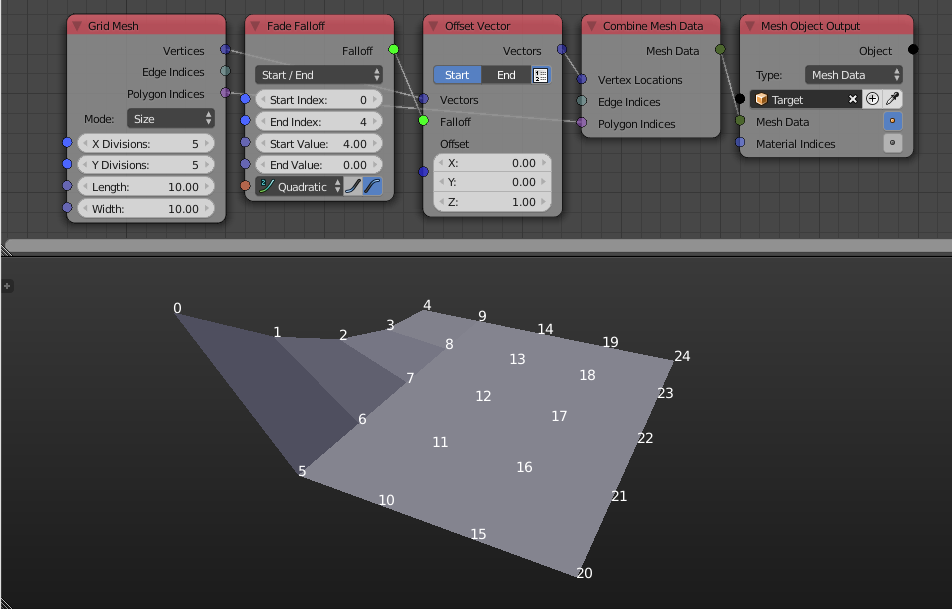
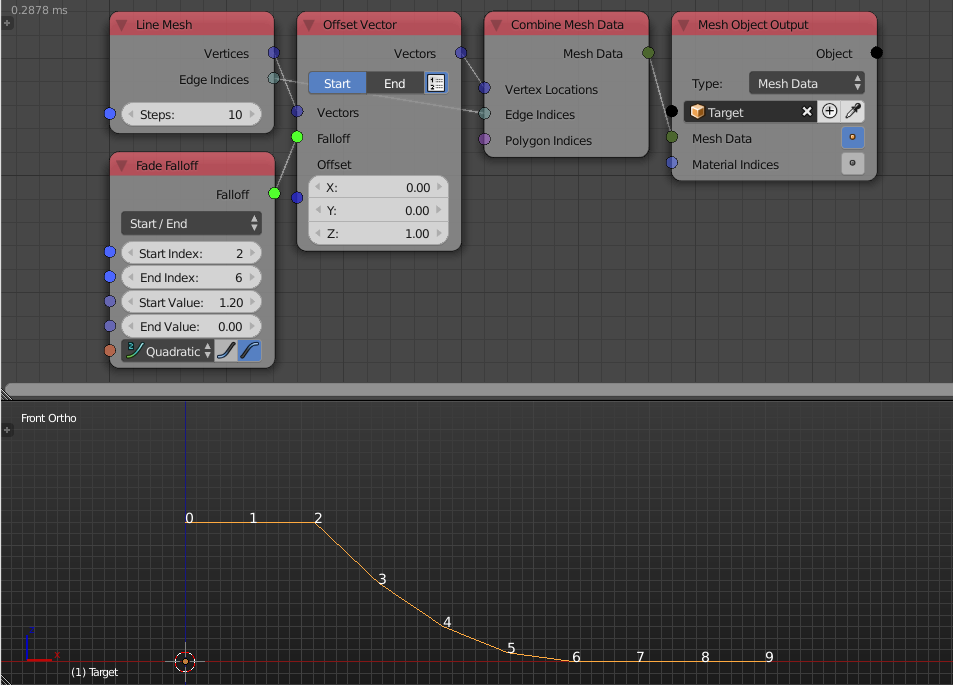
Added Index Mask Falloff Node

diff --git a/docs/user_guide/nodes/falloff/index_mask_falloff.rst b/docs/user_guide/nodes/falloff/index_mask_falloff.rst
@@ -1,32 +1,29 @@
 Index Mask Falloff
 ==================
 
-Can be used to influence specific objects only based on their index (position in list).
+Description
+-----------
 
-This node two modes currently:
-
-    - **Every Nth**: Only influence every second or third or whatever element.
-    - **Random**: Only influence some randomly choosen elements.
+This node creates an index based falloff that associates one of two input floats to every object. The node supports random assignment of floats as well as every Nth object assignment.
 
 .. image:: images/index_mask_falloff_node.png
+   :width: 160pt
+
+Options
+-------
+
+- **Every Nth** - This option assign float A to indices that are divisible by some input integer ``n`` and float b to indices that aren't. If ``n`` was ``2`` then the pattern will be ``BABABABA`` because even numbers are divisible by ``2`` while odd aren't. If ``n`` was 3 then the pattern will be ``BBABBABB`` because ``3,6,9`` are divisible by ``3`` while other numbers aren't.
+- **Random** - This option assign float A and B randomly but limited with some probabilities. If the probability is ``1`` all objects will have float B, if zero all object will have float A, if ``0.5`` half of the object will have A and the other half will have B. But it is a probability so it is not guaranteed.
 
 Inputs
 ------
 
-Depending on the mode this node has different sets of inputs. In both bases there are two influences called **A** and **B**:
-
-- **A** - Tells how much an object should be influenced that is *not* selected.
-- **B** - Tells how much an object should be influenced that is selected.
-
-In **Every Nth** mode there are two more inputs:
-
-    - **Step** - If there is a 4, every forth element is "selected".
-    - **Offset** - E.g. to specify wether all even or odd elements should be "selected".
-
-In **Random** mode there are two more inputs as well:
-
-    - **Seed** - Change to get a different set of selected elements.
-    - **Probability** - How likely it is that a random element is choosen (0.5 means that ca half of the elements are selected)
+- **Step** - An integer to check divisibility against. See **Every Nth** option above. (Only available in **Every Nth** option)
+- **Offset** - This integer is added to the index of every object. It acts as an offset for the pattern, so pattern ``ABABAB`` offset by ``1`` will be ``BABABA``. (Only available in **Every Nth** option)
+- **Seed** - Seed of the random generator. (Only in the **Random** option)
+- **Probability** - The probability that float B will be assigned to objects. See **Random** option above. (Only in the **Random** option)
+- **A** - Float A. Can be between zero and one.
+- **B** - Float B. Can be between zero and one.
 
 Outputs
 -------
@@ -41,4 +38,4 @@ Advanced Node Settings
 Examples of Usage
 -----------------
 
-.. image:: images/rotate_every_third_torus_example.png
+.. image:: gifs/index_mask_falloff_node_example.gif

diff --git a/docs/user_guide/nodes/falloff/fade_falloff.rst b/docs/user_guide/nodes/falloff/fade_falloff.rst
@@ -14,7 +14,7 @@ Illustration
 
 .. image:: images/fade_falloff_node_illustration.png
 
-The examples above shows the fade falloff node in action. We offset the vertices of the grid by one unit in the z-axis and used the **Fade Falloff** node as a factor for that offset. The **Start Index** is set to ``0`` so all vertices with index less than ``0`` are offset ``2`` units in the z-axis because the original offset multiplied by the **Start Value** is ``1x2=2``. The **End Index** is set to ``4`` so all vertices with index larger than ``4`` are not offset because the original offset multiplied by the **End Value** is ``1x0=0``. Indices in between however (from ``0`` to ``4``) are offset with amounts linearly changing between ``0`` and ``2``. Had I used a non-linear interpolation, values will no longer linearly change as in the following example:
+The examples above shows the fade falloff node in action. We offset the vertices of the line by one unit in the z-axis and used the **Fade Falloff** node as a factor for that offset. The **Start Index** is set to ``2`` so all vertices with index less than or equal ``2`` are offset ``2`` units in the z-axis because the original offset multiplied by the **Start Value** is ``1x2=2``. The **End Index** is set to ``6`` so all vertices with index larger than or equal ``6`` are not offset because the original offset multiplied by the **End Value** is ``1x0=0``. Indices in between however (from ``2`` to ``6``) are offset with amounts linearly changing between ``0`` and ``2``. Had I used a non-linear interpolation, values will no longer linearly change as in the following example:
 
 .. image:: images/fade_falloff_node_illustration2.png
 

diff --git a/docs/user_guide/nodes/falloff/delay_falloff.rst b/docs/user_guide/nodes/falloff/delay_falloff.rst
@@ -14,7 +14,7 @@ Illustration
 
 .. image:: gifs/delay_falloff_node_example.gif
 
-The vertices of the line are suppose to move one unit in the z-axis but since I used the **Delay Falloff** as a factor, the offset depend on time. We notice, as the time increase, that the vertex at first index start moving, the vertex at the second index didn't start moving till the time became ``5`` which is the **Delay** input, the vertex at the first index stopped moving when time reached ``10`` which is the **Duration** input. So we conclude that input **Delay** is the time it takes for an object to start moving while the input **Duration** is the amount of time it takes for every object to reach its maximum value which is ``1``. The output is also evaluated at the input interpolation.
+The vertices of the line are suppose to move one unit in the z-axis but since I used the **Delay Falloff** as a factor, the offset depend on time. We notice, as the time increase, the vertex at first index start moving, the vertex at the second index didn't start moving till the time became ``5`` which is the **Delay** input, the vertex at the first index stopped moving when time reached ``10`` which is the **Duration** input. So we conclude that input **Delay** is the time it takes for an object to start moving relative to the previous object while the input **Duration** is the amount of time it takes for every object to reach its maximum value which is ``1``. The output is also evaluated at the input interpolation.
 
 Inputs
 ------

diff --git a/docs/user_guide/nodes/falloff/random_falloff.rst b/docs/user_guide/nodes/falloff/random_falloff.rst
@@ -1,7 +1,10 @@
 Random Falloff
 ==============
 
-The created falloff calculates a random influence for every object.
+Description
+-----------
+
+This node creates an index based falloff that associates a random float for every object.
 
 .. image:: images/random_falloff_node.png
    :width: 160pt
@@ -10,8 +13,8 @@ Inputs
 ------
 
 - **Seed** - Change this to get a different set of random numbers.
-- **Min** - Lower bound for the random numbers.
-- **Max** - Upper bound for the random numbers.
+- **Min** - Lower bound for the random numbers, can't be less than zero.
+- **Max** - Upper bound for the random numbers, can't be larger than one.
 
 Outputs
 -------
@@ -26,6 +29,4 @@ Advanced Node Settings
 Examples of Usage
 -----------------
 
-Create a grid mesh where each vertex is moved up by a random amount:
-
-.. image:: images/randomize_grid_points_example.png
+.. image:: gifs/random_falloff_node_example.gif
